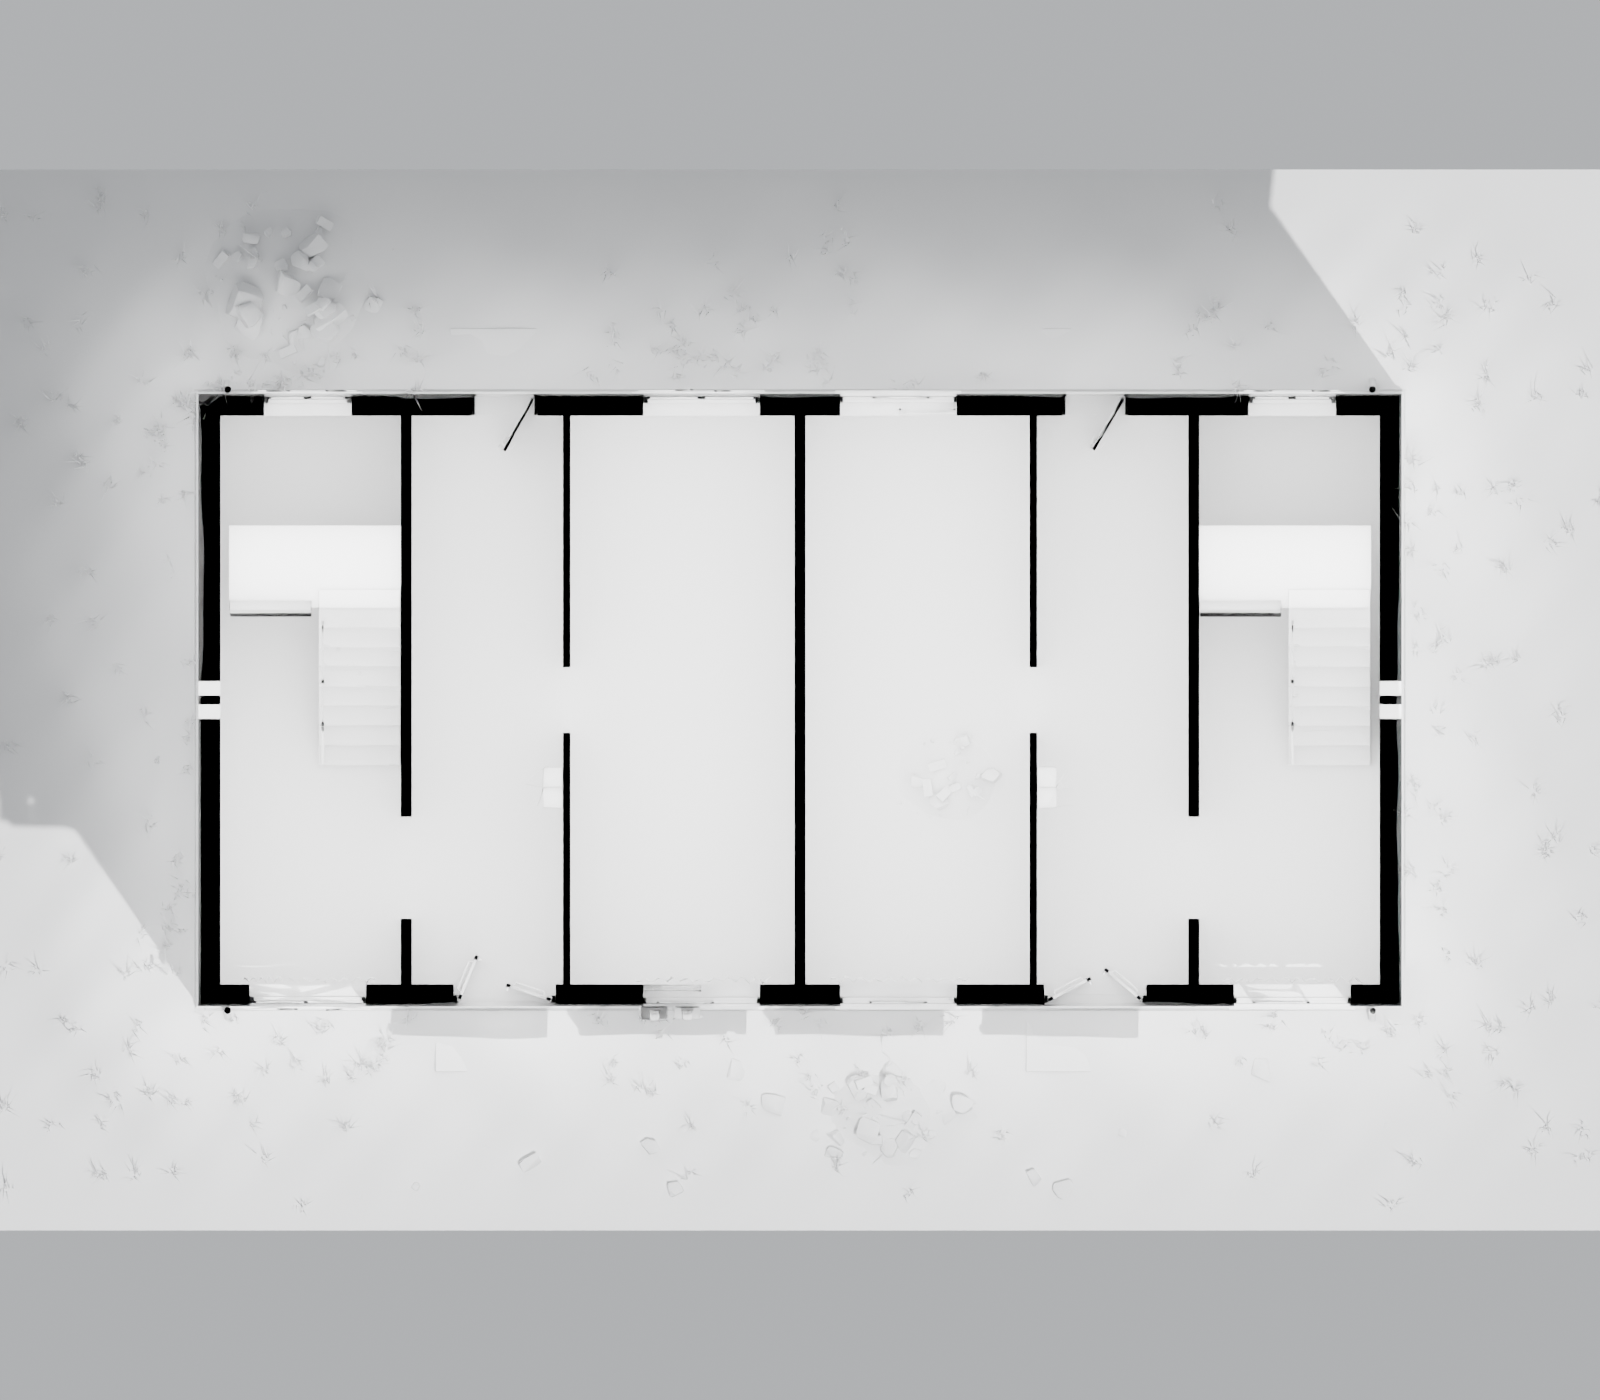
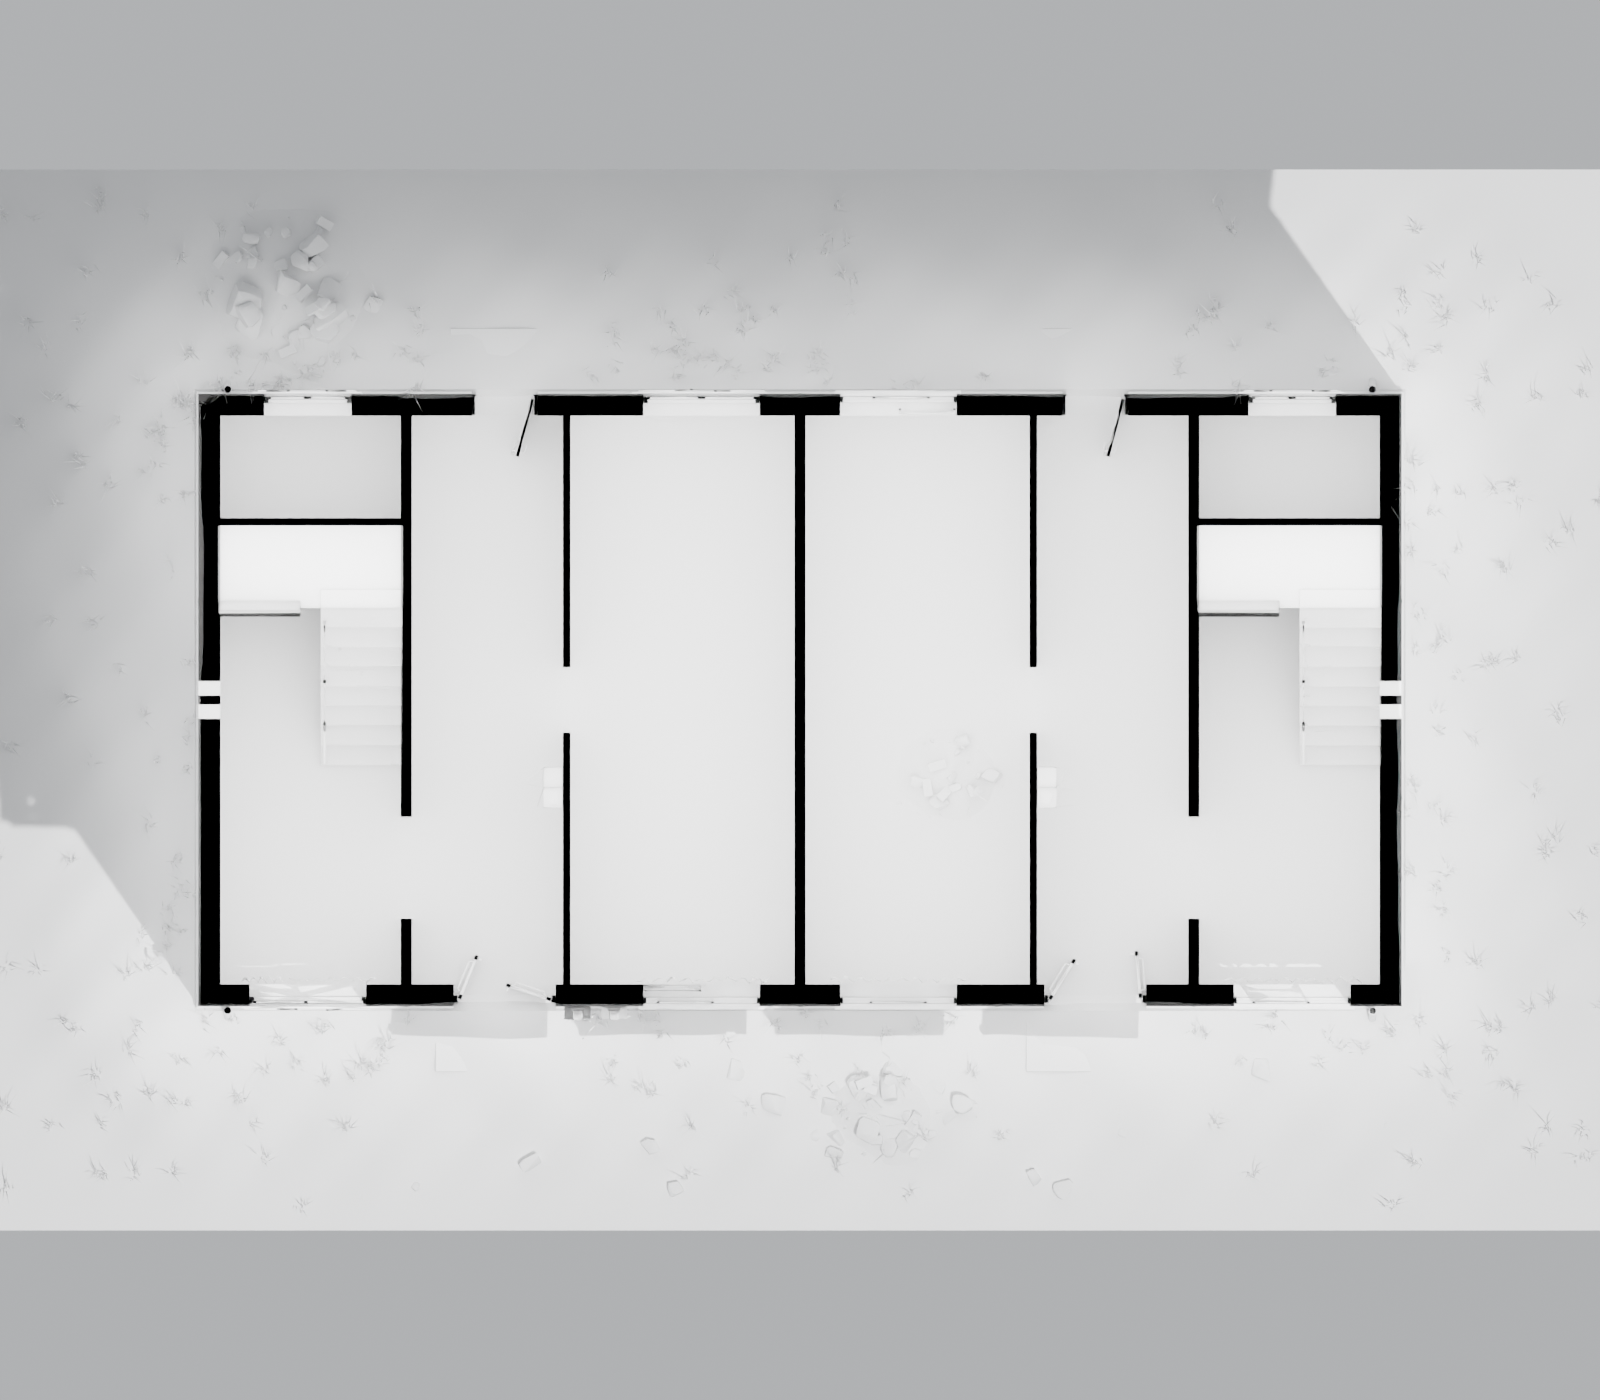
APT_D: correcciones de auditoría
- Cuartos de los balcones frontales con puerta desde el vestíbulo (antes la cortaba el muro del baño)
- Zócalo y junta de PB interrumpidos en las 4 puertas de acceso
- Vestíbulo del depto a y = -1,9 y puerta de entrada libre de la partición
- Núcleo de escalera cerrado tras el descanso (sin caída a la bodega trasera) y hueco central ensanchado
  para que los tramos lleguen al testero (sin ranura de 13 cm)
- Equipos de A/C viejos en un vano real bajo ventana; parabólica, medidores, conduit, cable, arbotantes
  y tendederos (con postes) sobre muro macizo
- Plantas seccionadas nuevas de APT_D

Claude-Session: https://claude.ai/code/session_01QzJUdvU2aDqqRZrKajniAp

diff --git a/blackisle-kit-edificios/entrega/blender/apt_d.py b/blackisle-kit-edificios/entrega/blender/apt_d.py
@@ -30,6 +30,8 @@ TW = 0.30                 # muro de panel
 FO = TW / 2               # la cara exterior va 0,15 fuera de la línea de módulo
 PITCH, OVH = 28.0, 0.5
 STAIR_W, STAIR_LANDING, STAIR_GOING = 1.1, 1.1, 0.27
+STAIR_GAP = 0.275
+AC_HOLES = {("front", 2): 6, ("back", 2): 5}   # (fachada, nivel) → índice de la ventana bajo la que entra un equipo viejo
 DORMERS = (-5.4, 0.0, 5.4)
 
 
@@ -38,9 +40,9 @@ def cfg_apt_d():
     ys = [-4.05, -1.35, 1.35, 4.05]
     h = [3.0, 2.9, 2.9, 2.9]
     L = 8 * STAIR_GOING + STAIR_LANDING + 0.003
-    sw = 2 * STAIR_W + 0.10
+    sw = 2 * STAIR_W + STAIR_GAP                # de la cara de la partición (±5,475) a la cara interior del testero (±7,95)
     y0 = -0.9
-    stairs = [dict(x0=-5.5 - sw, y0=y0, w=sw, l=L, origin=(-5.5, y0)), dict(x0=7.8 - sw, y0=y0, w=sw, l=L, origin=(7.8, y0))]
+    stairs = [dict(x0=-5.475 - sw, y0=y0, w=sw, l=L, origin=(-5.475, y0)), dict(x0=7.95 - sw, y0=y0, w=sw, l=L, origin=(7.95, y0))]
     holes = {k: [(s["x0"], s["x0"] + s["w"], s["y0"], s["y0"] + s["l"]) for s in stairs] for k in (1, 2, 3)}
     return dict(id="APT_D_4p", xs=xs, ys=ys, h=h, cells=set(), stair=stairs[0], stairs=stairs, stair_levels=set(), holes=holes,
                 slab_rects=[(xs[0], xs[-1], ys[0], ys[-1], (0.12, 0.12, 0.12, 0.12))], seed=41, loggia_depth=0.0,
@@ -78,6 +80,10 @@ def facade_wall(cfg, mb, side, lv, ops_by_bay, P):
         u_a, u_b = max(u_a, 0.0), min(u_b, L)
         for kind, (o0, o1, v0, v1) in ac.layout_openings(kinds, u_b - u_a, H - 0.25):
             ops.append((kind, (round(u_a + o0, 4), round(u_a + o1, 4), v0, v1)))
+    if (side, lv) in AC_HOLES:
+        _, (o0, o1, v0, _v1) = ops[AC_HOLES[(side, lv)]]
+        uc = 0.5 * (o0 + o1)
+        ops.append(("ac_box", (round(uc - 0.333, 4), round(uc + 0.333, 4), round(v0 - 0.596, 4), round(v0 - 0.15, 4))))
     m = ac.panel_matrix(side, a0, a1, face, z0)
     wall_with_openings(mb, L, H, TW, [o for _, o in ops], mat_out="plaster", mat_in="plaster", mat_reveal="concrete", m=m)
     p = dict(side=side, line=0, bay=-1, level=lv, a0=a0, a1=a1, L=L, z0=z0, H=H, face=face, recess=0.0, m=m, ops=ops, tag="panel")
@@ -125,8 +131,8 @@ FRONT = {0: {0: [("window", 0.5)], 1: [("lobby_door", 0.5)], 2: [("window", 0.5)
                 3: [("window_narrow", 0.22), ("door_balcony", 0.7)], 4: [("window", 0.5)], 5: [("window_small", 0.5)]}}
 BACK = {0: {0: [("window_small", 0.5)], 1: [("door_service", 0.5)], 2: [("window", 0.5)], 3: [("window", 0.5)],
             4: [("door_service", 0.5)], 5: [("window_small", 0.5)]},
-        "up": {0: [("window_stair", 0.5)], 1: [("door_balcony", 0.3), ("window_narrow", 0.78)], 2: [("window", 0.5)],
-               3: [("window", 0.5)], 4: [("window", 0.5)], 5: [("window_stair", 0.5)]}}
+        "up": {0: [("window_small", 0.5)], 1: [("door_balcony", 0.3), ("window_narrow", 0.78)], 2: [("window", 0.5)],
+               3: [("window", 0.5)], 4: [("window", 0.5)], 5: [("window_small", 0.5)]}}
 ac.OPENING.setdefault("lobby_door", (1.4, 2.3, 0.0))
 ac.OPENING.setdefault("vent_sq", (0.2, 0.2, 1.0))
 
@@ -141,7 +147,21 @@ def build_walls(cfg, shell):
     return P
 
 
-def build_joints(cfg, shell):
+def _minus(a, b, holes):
+    """Tramos de [a, b] fuera de los intervalos holes."""
+    segs, cur = [], a
+    for h0, h1 in sorted(holes):
+        if h1 <= cur or h0 >= b:
+            continue
+        if h0 > cur:
+            segs.append((cur, h0))
+        cur = max(cur, h1)
+    if cur < b:
+        segs.append((cur, b))
+    return segs
+
+
+def build_joints(cfg, shell, P):
     """Cordones de sellado de las juntas de panel (verticales en cada módulo, horizontales en cada losa) y zócalo corrido."""
     xs, ys = cfg["xs"], cfg["ys"]
     zl = level_z(cfg)
@@ -153,13 +173,21 @@ def build_joints(cfg, shell):
             y0, y1 = sorted((face, face + sgn * jp))
             shell.box((x - jw / 2, y0, 0.5), (x + jw / 2, y1, top), "mortar")
             n += 1
-        for z in zl[1:-1] + [zl[0] + 0.45]:
+        p0 = next(p for p in P if p["side"] == side and p["level"] == 0)
+        to_x = (lambda u: p0["a0"] + u) if side == "front" else (lambda u: p0["a1"] - u)
+        doors = [tuple(sorted((to_x(o[0]), to_x(o[1])))) for k, o in p0["ops"] if "door" in k]
+        for z in zl[1:-1]:
             y0, y1 = sorted((face, face + sgn * jp))
             shell.box((coords[0] - FO, y0, z - jw / 2), (coords[-1] + FO, y1, z + jw / 2), "mortar")
             n += 1
-        # zócalo
+        y0, y1 = sorted((face, face + sgn * jp))
+        for a, b in _minus(coords[0] - FO, coords[-1] + FO, doors):                  # junta de PB, cortada en las puertas
+            shell.box((a, y0, zl[0] + 0.45 - jw / 2), (b, y1, zl[0] + 0.45 + jw / 2), "mortar")
+            n += 1
+        # zócalo (no pasa por las puertas: el umbral queda al nivel del escalón de llegada)
         y0, y1 = sorted((face, face + sgn * 0.03))
-        shell.box((coords[0] - FO - 0.03, y0, -0.05), (coords[-1] + FO + 0.03, y1, 0.5), "concrete", bevel=0.008, seg=1)
+        for a, b in _minus(coords[0] - FO - 0.03, coords[-1] + FO + 0.03, doors):
+            shell.box((a, y0, -0.05), (b, y1, 0.5), "concrete", bevel=0.008, seg=1)
     for side, face, sgn in (("west", xs[0] - FO, -1), ("east", xs[-1] + FO, 1)):
         for y in ys[1:-1]:
             x0, x1 = sorted((face, face + sgn * jp))
@@ -204,16 +232,18 @@ def build_interior(cfg, mb, out):
                 partition(mb, (xc, yi0), (xc, yi1), z0, H, t=0.15, doors=[(-2.3, 1.4)], out=out, tag="open")   # vestíbulo | escalera
                 partition(mb, (sg * 3.2, yi0), (sg * 3.2, yi1), z0, H, doors=[(0.0, 0.9)], out=out)             # vestíbulo | cuarto
                 continue
-            partition(mb, (xc, yi0), (xc, yi1), z0, H, t=0.15, doors=[(-1.25, 0.9)], out=out, tag="entry")
-            # depto: frente y-3,9..-1,6 · vestíbulo -1,6..0,6 · fondo 0,6..3,9
+            partition(mb, (xc, yi0), (xc, yi1), z0, H, t=0.15, doors=[(-1.4, 0.9)], out=out, tag="entry")
+            # depto: frente y-3,9..-1,9 · vestíbulo -1,9..0,6 · fondo 0,6..3,9
             xa, xb = sg * 5.325, sg * 0.075
             lo, hi = min(xa, xb), max(xa, xb)
-            partition(mb, (lo, -1.6), (hi, -1.6), z0, H, doors=[(sg * 4.0, 0.8), (sg * 1.35, 0.8)], out=out)
+            partition(mb, (lo, -1.9), (hi, -1.9), z0, H, doors=[(sg * 4.0, 0.8), (sg * 2.05, 0.8)], out=out)   # libre del muro del baño
             partition(mb, (lo, 0.6), (hi, 0.6), z0, H, doors=[(sg * 4.0, 0.8), (sg * 1.9, 0.8)], out=out)
-            partition(mb, (sg * 2.7, yi0), (sg * 2.7, -1.6), z0, H)
+            partition(mb, (sg * 2.7, yi0), (sg * 2.7, -1.9), z0, H)
             partition(mb, (sg * 2.7, 0.6), (sg * 2.7, yi1), z0, H)
-            partition(mb, (sg * 1.4, -1.6), (sg * 1.4, 0.6), z0, H, doors=[(-0.5, 0.7)], out=out)                 # baño
+            partition(mb, (sg * 1.4, -1.9), (sg * 1.4, 0.6), z0, H, doors=[(-0.5, 0.7)], out=out)                 # baño
         partition(mb, (0.0, yi0), (0.0, yi1), z0, H, t=0.15)                                                       # medianera
+        for sg in (-1, 1):                         # cierre del núcleo tras el descanso: sin caída a la bodega trasera
+            partition(mb, (sg * 7.95, 2.443), (sg * 5.475, 2.443), z0, H, t=0.10)
     return mb
 
 
@@ -369,31 +399,35 @@ def dress_services(cfg, P, det, inter, far="low", near="mid"):
         o = p["ops"][kind_idx][1]
         return (o[0] + o[1]) / 2, o
     # A/C bajo ventanas: frente lejano, trasera
-    for side, lv, k, kind in (("front", 1, 1, "split_outdoor"), ("front", 2, 5, "box_old"), ("back", 1, 3, "split_outdoor"),
-                              ("back", 3, 4, "split_outdoor"), ("back", 2, 2, "box_old")):
+    for side, lv, k, kind in (("front", 1, 1, "split_outdoor"), ("front", 2, -1, "box_old"), ("back", 1, 3, "split_outdoor"),
+                              ("back", 3, 4, "split_outdoor"), ("back", 2, -1, "box_old")):
         p = wall(side, lv)
-        u, o = op_mid(p, k)
-        add("ac_" + kind, sv.ac_unit(kind, seed=int(r.integers(1e6)), detail=far), p["m"] @ _T(u, 0, o[2] - 0.6))
+        u, o = op_mid(p, k)                       # box_old: el último vano del panel es su hueco (AC_HOLES)
+        add("ac_" + kind, sv.ac_unit(kind, seed=int(r.integers(1e6)), detail=far), p["m"] @ _T(u, 0, o[2] if kind == "box_old" else o[2] - 0.6))
     # parabólicas en los balcones y tendederos
     for lv in (1, 2, 3):
         xc = 0.5 * (xs[2] + xs[3])
-        add("laundry_line", sv.laundry_line(length=2.0, seed=int(r.integers(1e6)), detail=near if lv == 1 else far),
-            _T(xc - 1.0, ys[0] - FO - 0.6, zl[lv] + 1.9))
+        posts = MB()                              # dos postes de tubo sobre los barandales laterales del balcón
+        for x in (xc - 1.08, xc + 1.08):
+            posts.box((x - 0.02, ys[0] - FO - 0.62, zl[lv]), (x + 0.02, ys[0] - FO - 0.58, zl[lv] + 2.05), "metal_rust", bevel=0.004, seg=1)
+        add("laundry_post", posts, Matrix())
+        add("laundry_line", sv.laundry_line(length=2.12, seed=int(r.integers(1e6)), detail=near if lv == 1 else far),
+            _T(xc - 1.06, ys[0] - FO - 0.6, zl[lv] + 1.9))
     for lv in (2, 3):
-        add("satellite_dish", sv.satellite_dish(seed=int(r.integers(1e6)), detail=far), _T(0.5 * (xs[3] + xs[4]) + 0.9, ys[0] - FO, zl[lv] + 1.7))
+        add("satellite_dish", sv.satellite_dish(seed=int(r.integers(1e6)), detail=far), _T(0.5 * (xs[3] + xs[4]) - 0.16, ys[0] - FO, zl[lv] + 1.7))   # sobre el machón entre ventana y puerta
     # accesos: arbotantes, medidores, buzones
     for sg in (-1, 1):
         x = sg * 4.05                                   # centro del módulo 1 / 4 = eje de las puertas de PB
-        add("light_fixture", sv.light_fixture("wall", seed=int(r.integers(1e6)), detail=near), _T(x + 1.1, ys[0] - FO, zl[0] + 2.65))
+        add("light_fixture", sv.light_fixture("wall", seed=int(r.integers(1e6)), detail=near), _T(x + 1.25, ys[0] - FO, zl[0] + 2.65))
         add("light_fixture", sv.light_fixture("wall", seed=int(r.integers(1e6)), detail=far),
             _T(x - 0.95, ys[-1] + FO, zl[0] + 2.45) @ ac._rot_z(180))
         add("mailboxes", sv.mailboxes(n=6, seed=int(r.integers(1e6)), detail=near),
             _T(sg * (3.2 + 0.051), -1.2, zl[0] + 1.05) @ ac._rot_z(-90 if sg < 0 else 90), inter)
-    for i, x in enumerate((-2.0, -1.55)):
+    for i, x in enumerate((-3.05, -2.55)):              # machón entre la puerta del vestíbulo y la ventana
         add("meter_box", sv.meter_box(seed=int(r.integers(1e6)), open_door=bool(i), detail=near), _T(x, ys[0] - FO, 1.2))
-    add("cable_bundle", sv.cable_bundle([(-8.25, ys[0] - FO - 0.01, zl[1] - 0.3), (-2.4, ys[0] - FO - 0.01, zl[1] - 0.25)], n=3, sag=0.2,
+    add("cable_bundle", sv.cable_bundle([(-8.25, ys[0] - FO - 0.03, zl[1] + 0.15), (-2.45, ys[0] - FO - 0.03, zl[1] + 0.15)], n=3, sag=0.2,
                                         seed=int(r.integers(1e6)), detail=near), Matrix())
-    add("conduit", sv.conduit([(0, 0, 1.7), (0, 0, 2.8)], seed=int(r.integers(1e6)), detail=near), _T(-1.75, ys[0] - FO, 0.0))
+    add("conduit", sv.conduit([(0, 0, 1.7), (0, 0, zl[1] + 0.12)], seed=int(r.integers(1e6)), detail=near), _T(-2.45, ys[0] - FO, 0.0))
     for lv in (1, 3):
         add("extinguisher_cabinet", sv.extinguisher_cabinet(seed=int(r.integers(1e6)), detail=near),
             _T(-5.4 - 0.075 - 0.001, -2.9, zl[lv] + 1.05) @ ac._rot_z(-90), inter)
@@ -440,7 +474,7 @@ def build_apt_d(collection_root=None, dress_all=True):
     shell, det, inter, sk = MB(), MB(), MB(), MB()
     ab.build_frame(cfg, shell)                       # solo losas (sin columnas ni vigas a la vista)
     P = build_walls(cfg, shell)
-    stats = dict(joints=build_joints(cfg, shell))
+    stats = dict(joints=build_joints(cfg, shell, P))
     zl = level_z(cfg)
     for sg in (-1, 1):
         x = sg * 4.05
@@ -455,7 +489,8 @@ def build_apt_d(collection_root=None, dress_all=True):
         stats["interior_doors"] = ab.dress_interior_doors(cfg, doors, inter)
         for k, st in enumerate(cfg["stairs"]):
             c2 = dict(cfg, seed=cfg["seed"] + 13 * k)
-            ac.stair_core(c2, inter, st["origin"], "+y", STAIR_W, STAIR_LANDING, levels=[0, 1, 2], going=STAIR_GOING, limit=(st["l"], st["w"]))
+            ac.stair_core(c2, inter, st["origin"], "+y", STAIR_W, STAIR_LANDING, levels=[0, 1, 2], gap=STAIR_GAP, going=STAIR_GOING,
+                          limit=(st["l"], st["w"]))
             ac.rail_along(inter, "tube_metal", (st["origin"][0] - STAIR_W, st["y0"]), (st["origin"][0], st["y0"]), zl[3], "+y",
                           seed=cfg["seed"] + 5 + k, missing=0.15)
         stats["balconies"] = build_balconies(cfg, shell, det)
